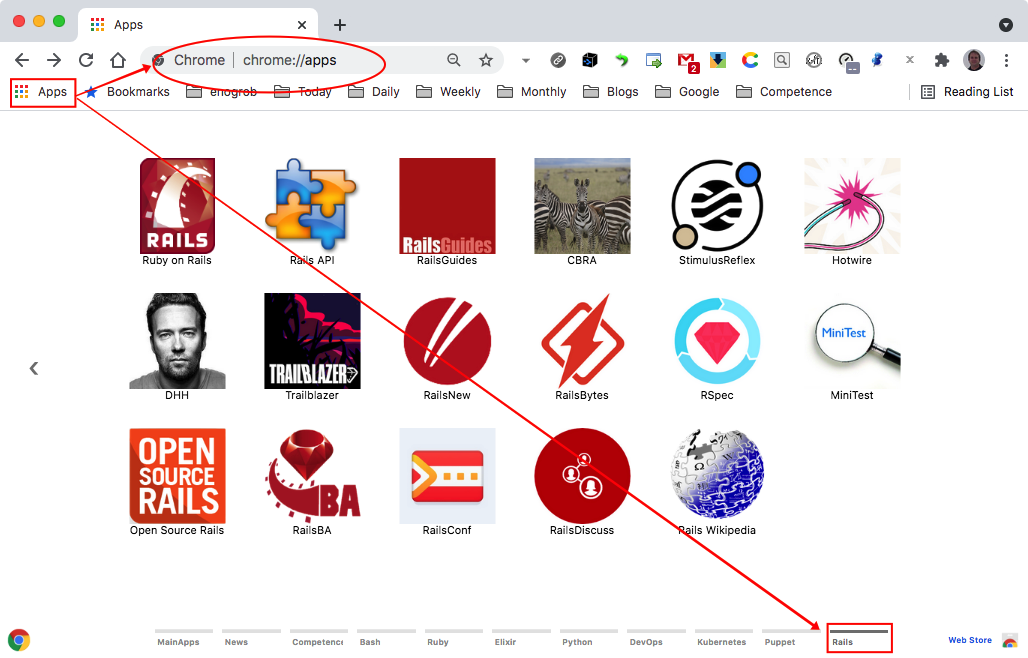
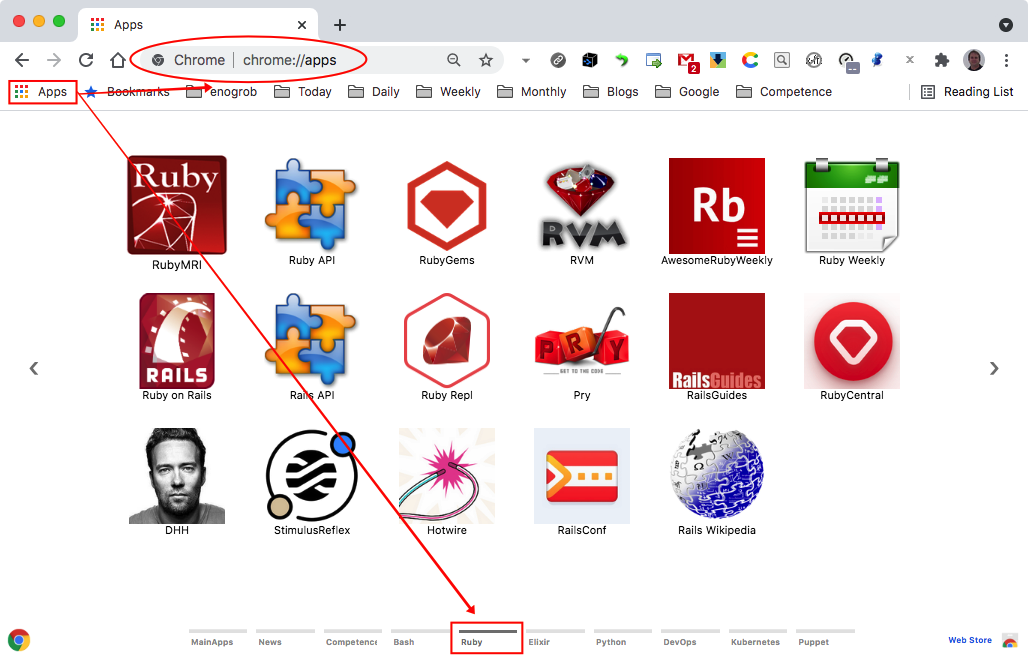
update-rails

diff --git a/README.md b/README.md
@@ -29,7 +29,7 @@ drwxr-xr-x   19 enogrob  staff    646 Oct  4 02:42 apps
 drwxr-xr-x    4 enogrob  staff    136 Oct  4 02:46 images
 
 $ tree -L 1 apps/
-apps
+pps
 ├── Rails-API
 ├── Rails-BoringRails
 ├── Rails-CBRA
@@ -42,6 +42,7 @@ apps
 ├── Rails-MailCatcher
 ├── Rails-MiniTest
 ├── Rails-OpenSourceRails
+├── Rails-Pry
 ├── Rails-RSpec
 ├── Rails-RailsBump
 ├── Rails-RailsBytes
@@ -50,15 +51,23 @@ apps
 ├── Rails-RailsGuides
 ├── Rails-RailsNew
 ├── Rails-RailsWikipedia
+├── Rails-RubyAPI
+├── Rails-RubyAwesome
+├── Rails-RubyCentral
+├── Rails-RubyGems
+├── Rails-RubyHomepage
 ├── Rails-RubyOnRailsBosnia
 ├── Rails-RubyOnRailsPodcast
+├── Rails-RubyRepl
+├── Rails-RubyWeekly
+├── Rails-RVM
 ├── Rails-StimulusReflex
 ├── Rails-TechMaker
 ├── Rails-Trailblazer
 ├── Rails-Upcase
 └── Rails-Webpack
 
-27 directories, 0 files
+36 directories, 0 files
 
 # in order to open Files in "Linux" to drag the App folders if wanted.
 $ cd apps
